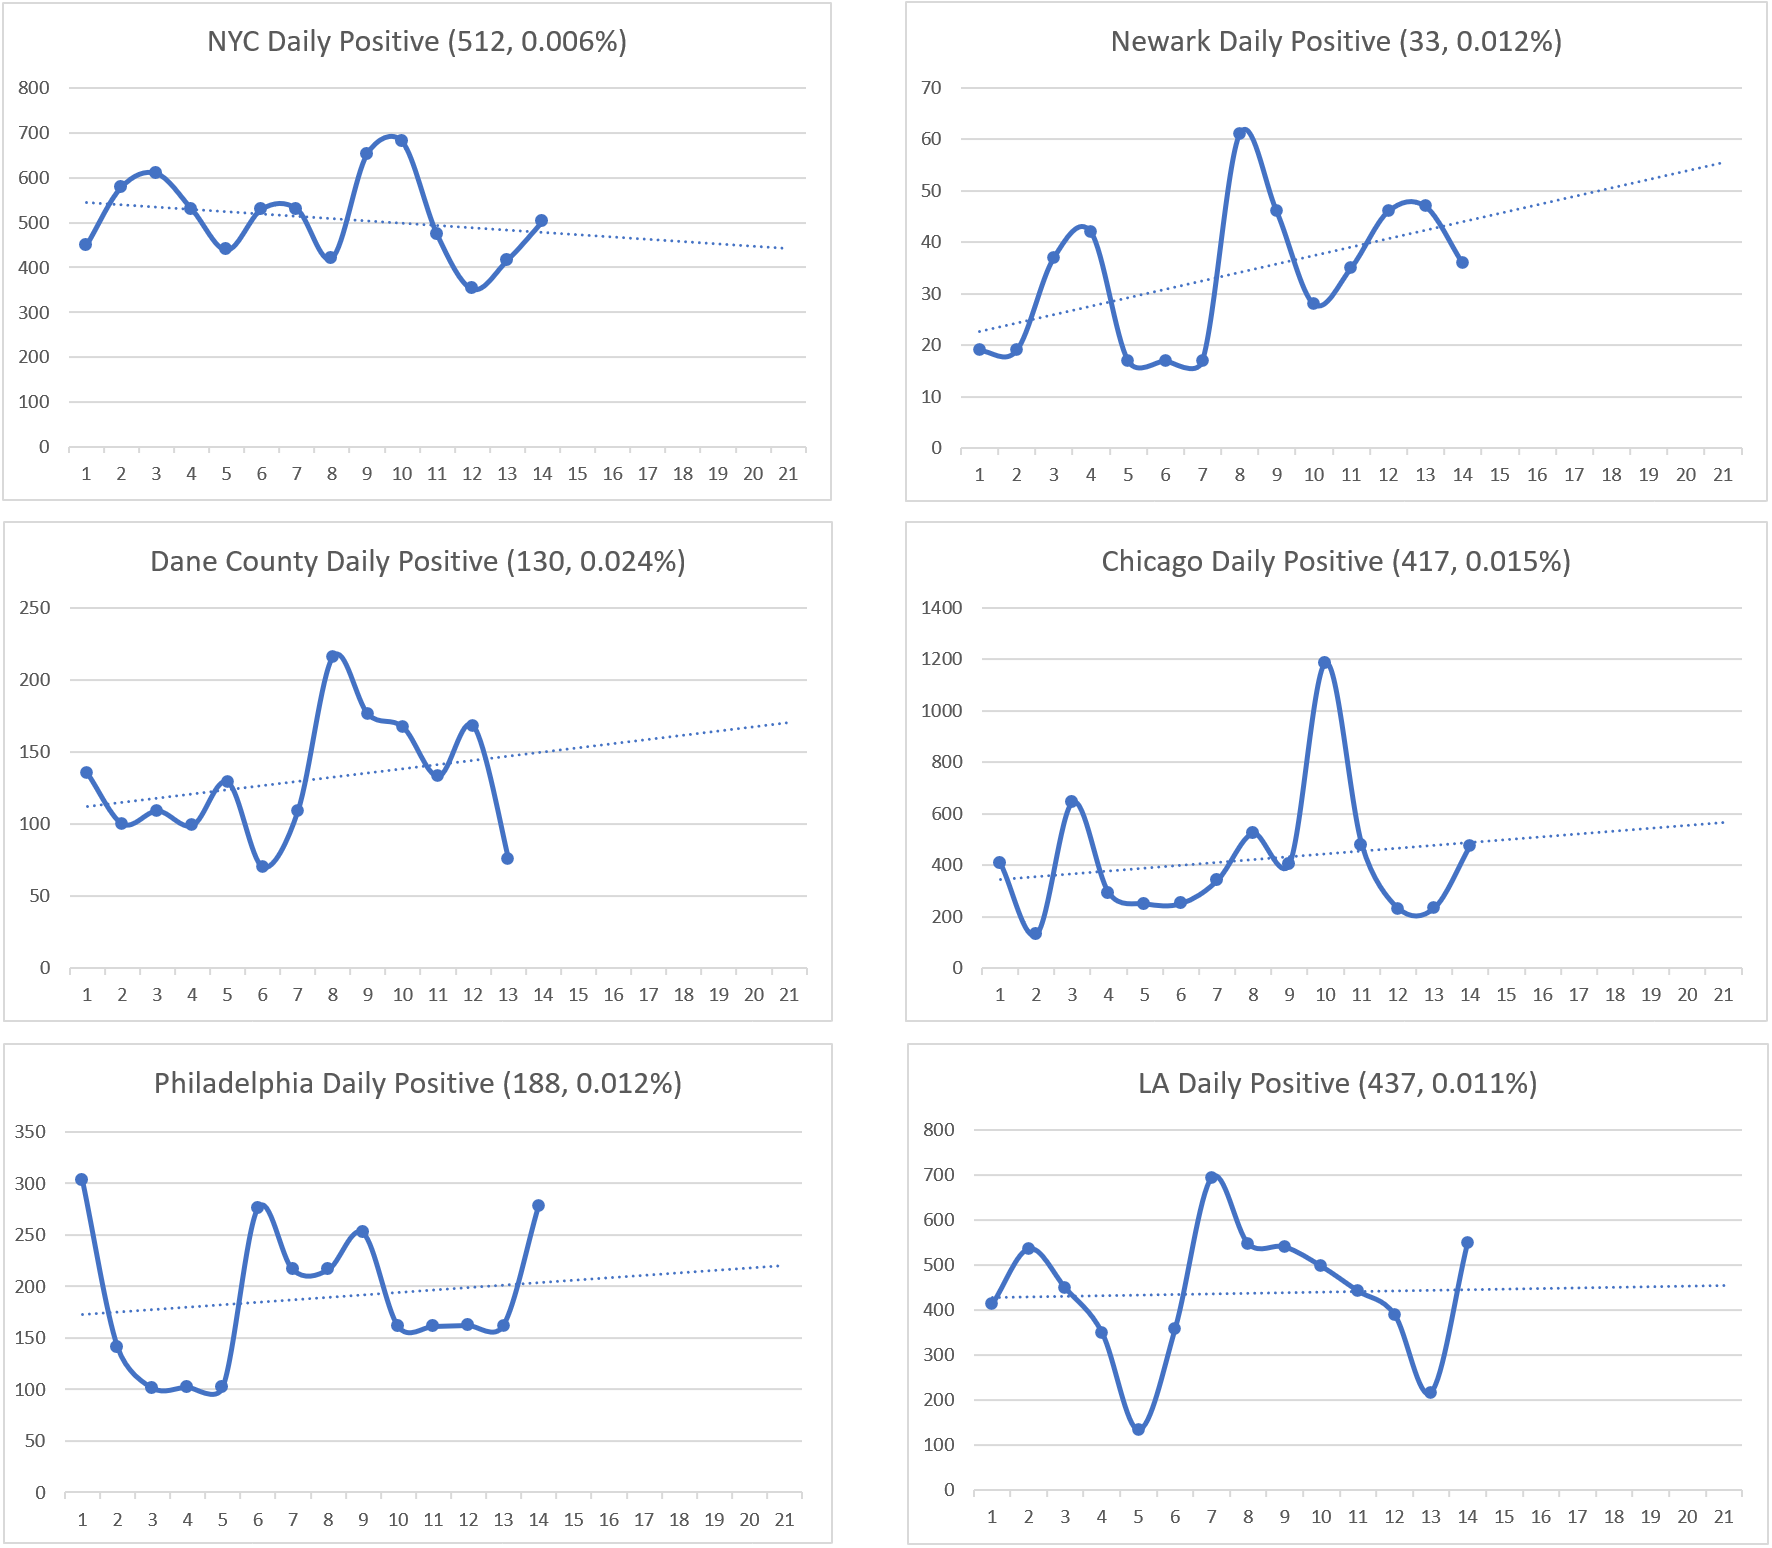
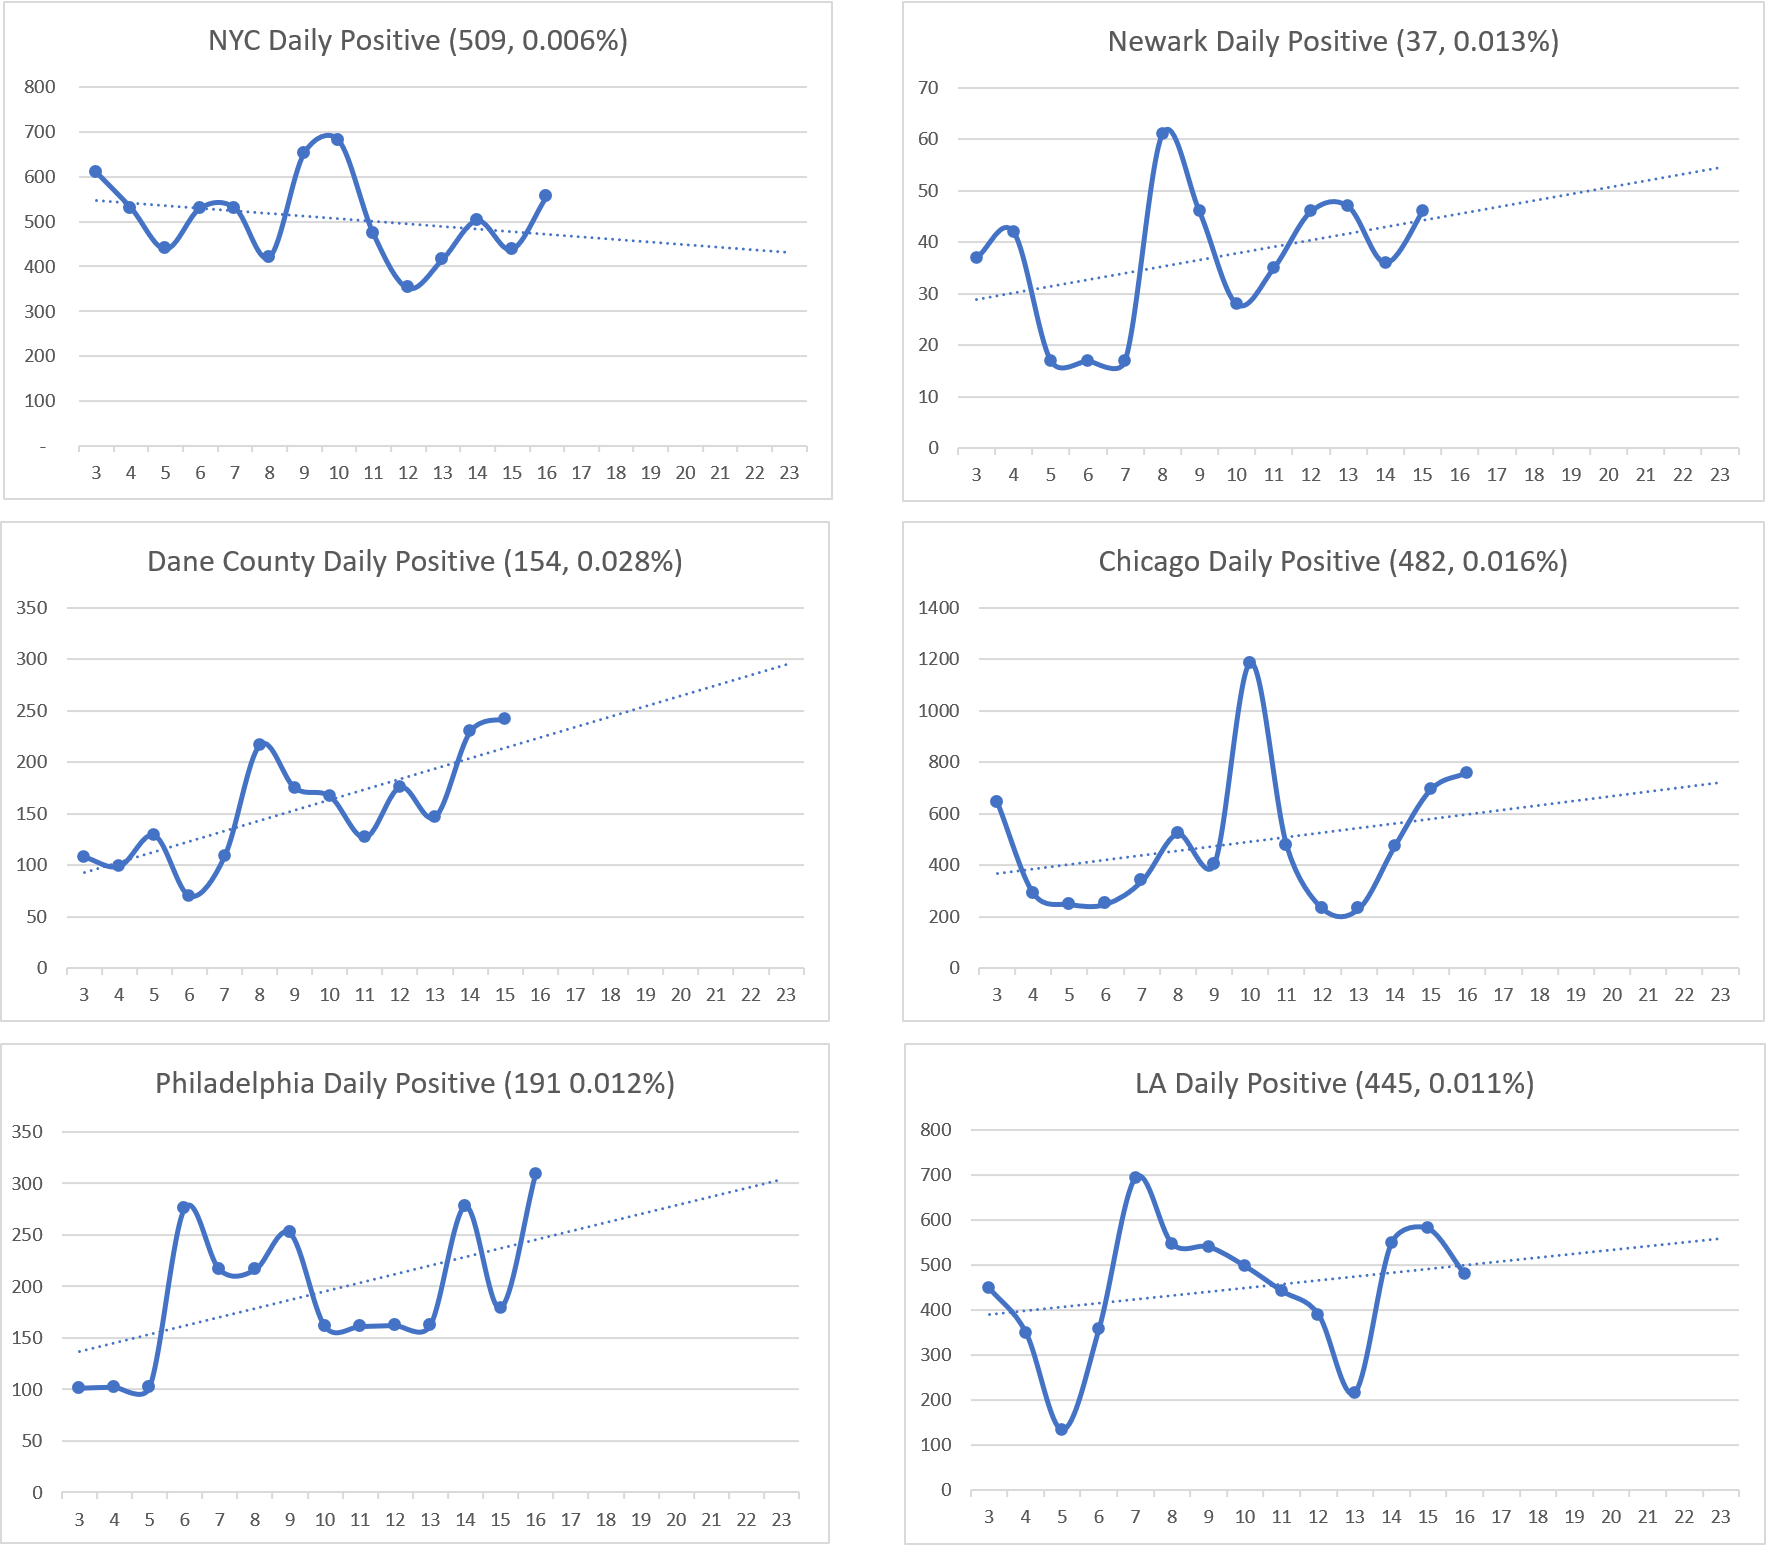
update 10/16 status

diff --git a/index.html b/index.html
@@ -19,7 +19,7 @@
 
 <body class="container-fluid">
 	<h1> CoronaV for Friends</h1>
-	<h2> Data updated at Oct 14 2020 EST 23:55</h2>
+	<h2> Data updated at Oct 16 2020 EST 19:45</h2>
 	<hr>
 	<main>
 		<div class="row">
